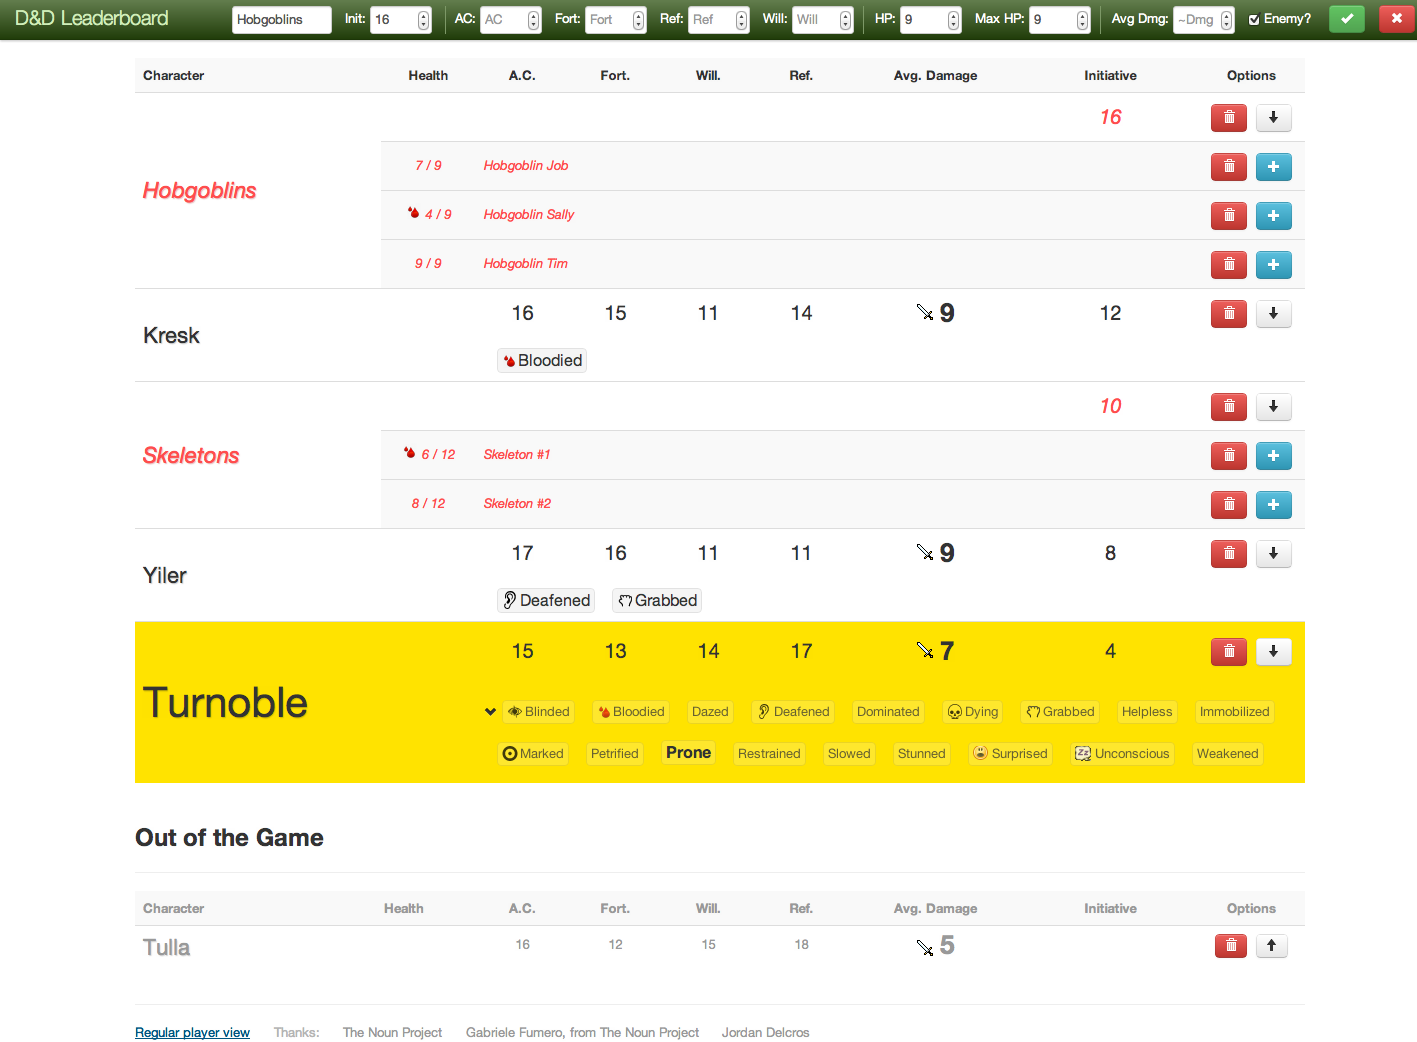
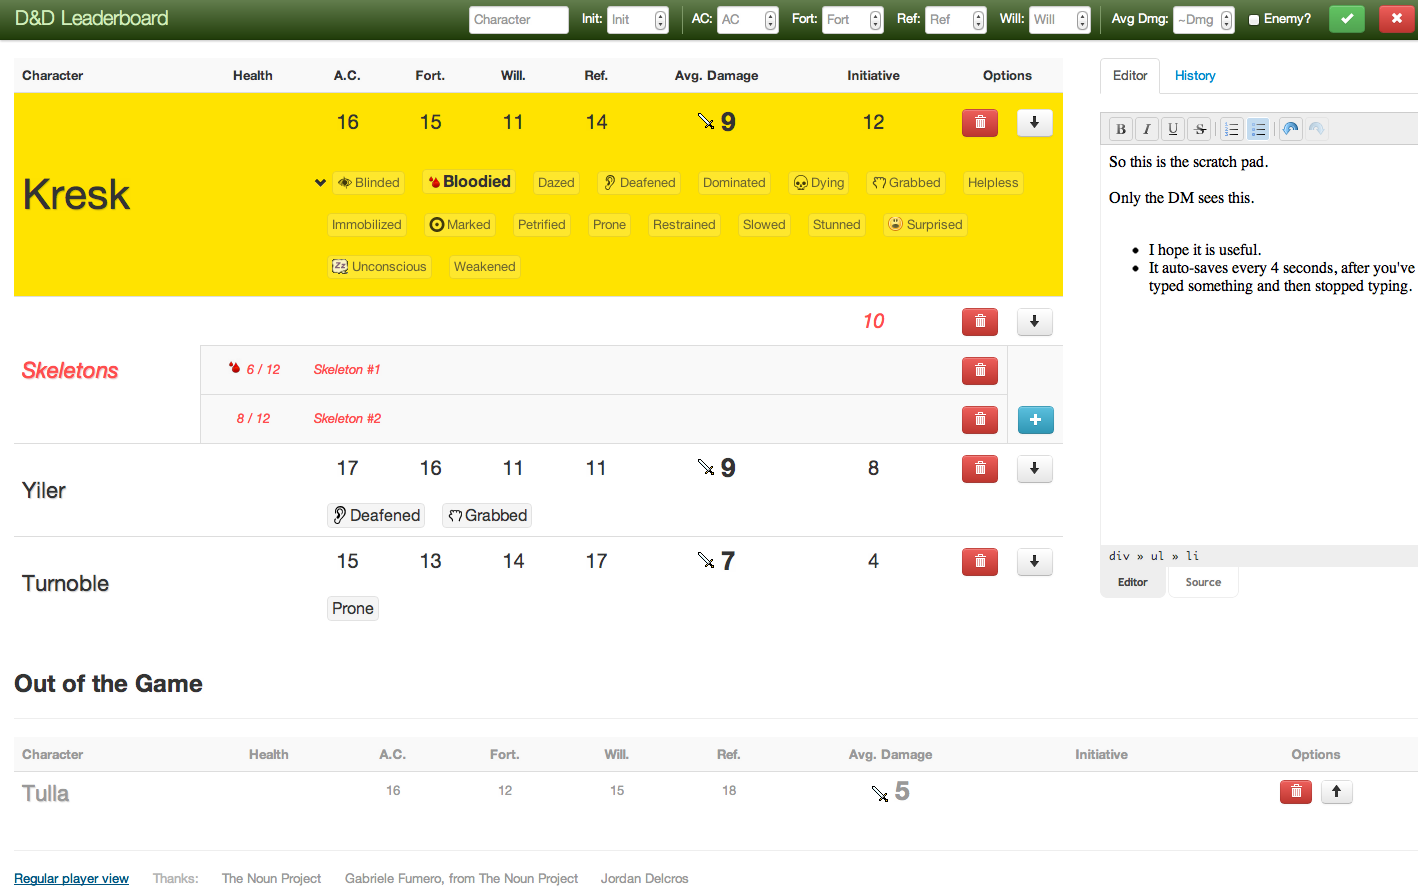
Save indicator appears
Increasing width of page.  Updating screenshots.  Auto-save after four
seconds of not typing in DM scratchpad.  Removing the oldest revision
to add a new revision after ten revisions have been stored.

diff --git a/client/dnd.js b/client/dnd.js
@@ -117,7 +117,7 @@ var adjustRowSpans = function() {
 			cell.attr('rowspan', rowspan);
 		});
 	};
-	
+
 var getLatestScratchPadContent = function() {
 		if (ScratchPadList.find().count() < 1) {
 			return "";
@@ -127,17 +127,22 @@ var getLatestScratchPadContent = function() {
 	
 var saveScratchPad = function(body) {
 		var time = new Date();
-		console.log("Saving scratch pad at " + time);
 		var revisionLimit = 10;
 		var numRevisions = ScratchPadList.find().count();
-		if (numRevisions < revisionLimit) {
-			ScratchPadList.insert({
-				time: time,
-				content: body.html()
-			});
-		} else {
-			console.log("Limit reached");
+		while (numRevisions >= revisionLimit) {
+			var oldest = ScratchPadList.findOne({}, {sort: {time: 1}});
+			ScratchPadList.remove({_id: oldest._id});
+			numRevisions = ScratchPadList.find().count();
 		}
+		ScratchPadList.insert({
+			time: time,
+			content: body.html()
+		});
+		var saveIndicator = $('#scratch-pad-save-indicator');
+		saveIndicator.fadeIn();
+		setTimeout(function() {
+			saveIndicator.fadeOut();
+		}, 1000);
 	};
 	
 var setupScratchPadRevisionsTab = function() {
@@ -172,7 +177,7 @@ var setupScratchPad = function() {
 			clearTimeout(timeout);
 			timeout = setTimeout(function() {
 				saveScratchPad(editBody);
-			}, 2000);
+			}, 4000);
 		});
 	};
 	

diff --git a/client/dnd.css b/client/dnd.css
@@ -88,6 +88,11 @@ td.char-damage {
 	.char-damage .icon-sword {
 		margin-top: 0.275em;
 	}
+.container,
+.navbar-fixed-top .container,
+.navbar-fixed-bottom .container {
+	width: 98%;
+}
 .control-group {
 	margin-bottom: 0;
 }
@@ -130,6 +135,7 @@ footer {
 		color: #999999;
 	}
 .icon-blood,
+.icon-save,
 .icon-sword {
 	background-position: left top;
 	width: 16px;
@@ -138,6 +144,11 @@ footer {
 .icon-blood,
 .character-bloodied.control-group label {
 	background-image: url('/icon-blood.png');
+}
+.icon-save {
+	background-image: url('/icon-save.png');
+	width: 20px;
+	height: 20px;
 }
 .icon-sword {
 	background-image: url('/icon-sword.gif');
@@ -270,6 +281,10 @@ input[type="number"] {
 }
 .scratch-pad-revisions.table thead th {
 	background-color: white;
+}
+#scratch-pad-save-indicator {
+	display: none;
+	float: right;
 }
 .status-effects .control-group label {
 	background-repeat: no-repeat;

diff --git a/client/dnd.html b/client/dnd.html
@@ -101,6 +101,7 @@
 </template>
 
 <template name="scratch_pad">
+	<div class="icon-save" id="scratch-pad-save-indicator"></div>
 	<ul class="nav nav-tabs">
 		<li class="active"><a href="#scratch-pad-tab" data-toggle="tab">Editor</a></li>
 		<li><a href="#scratch-pad-revisions-tab" data-toggle="tab">History</a></li>
